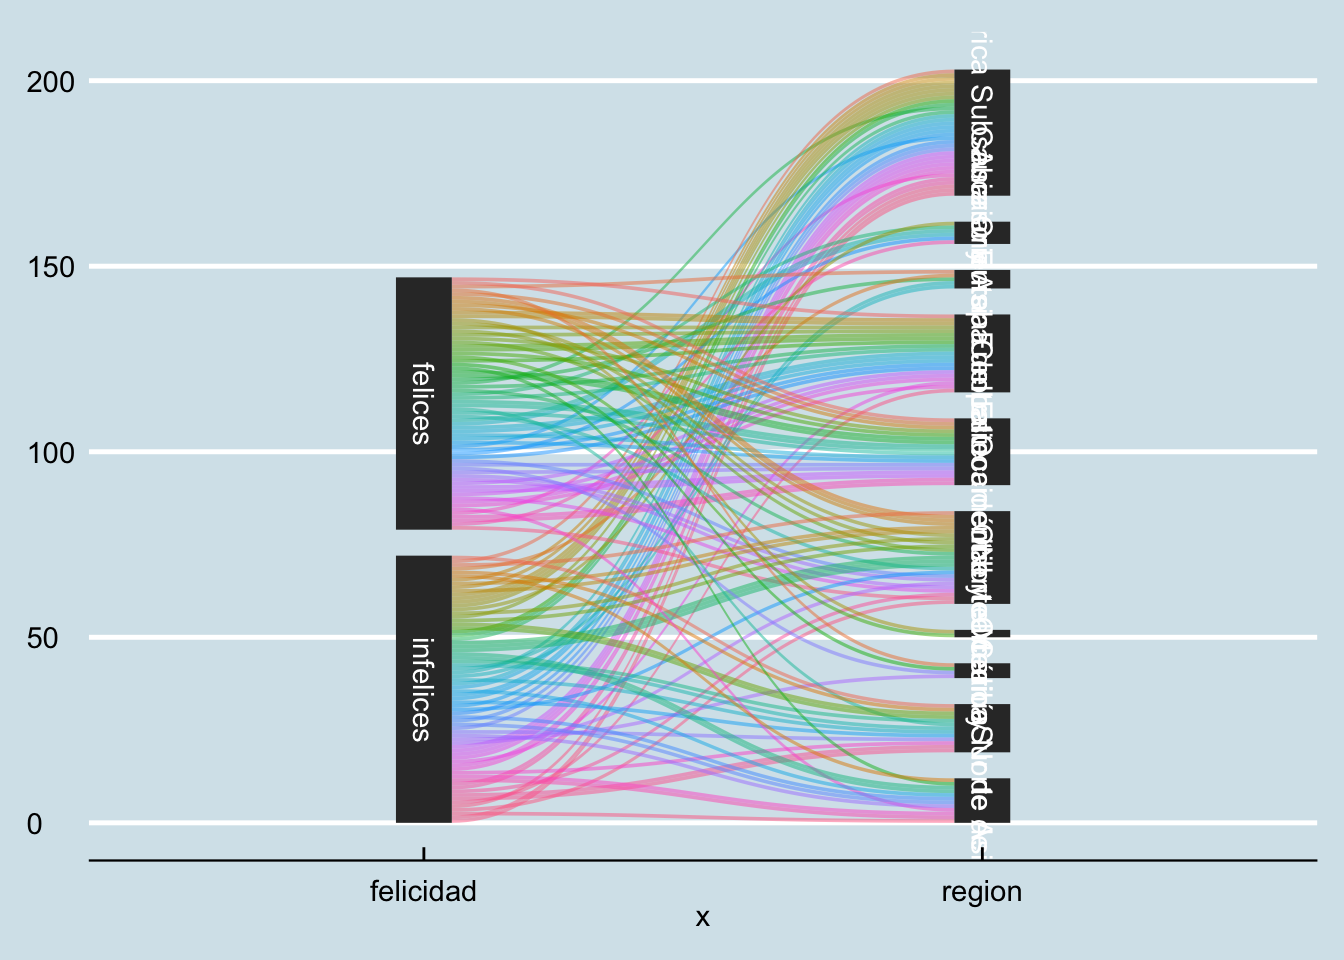
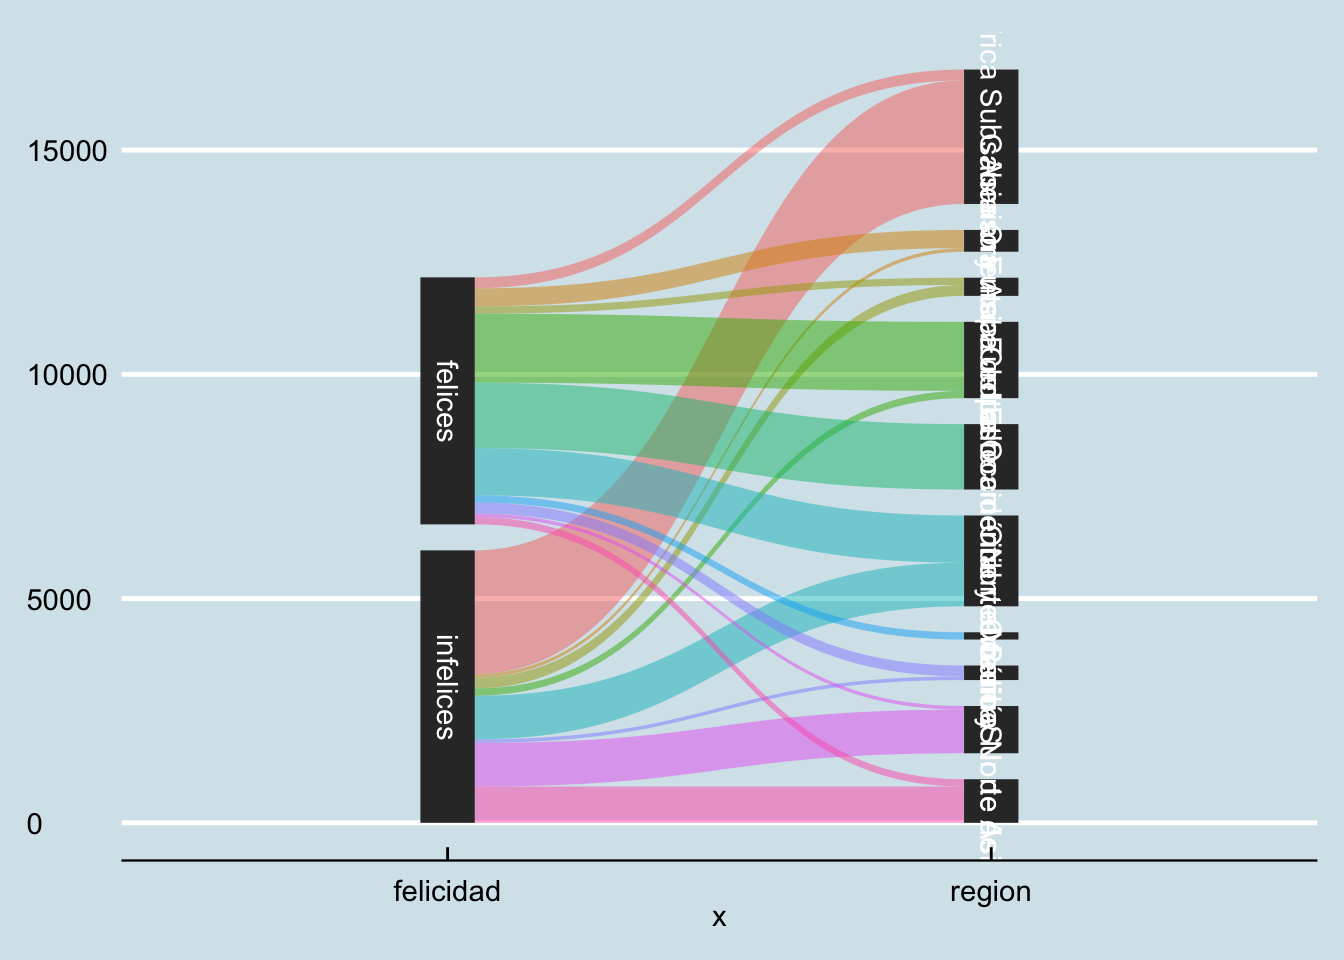
ajustes a posteos

diff --git a/content/post/2021-02-04-gráficos-paralelos/index.html b/content/post/2021-02-04-gráficos-paralelos/index.html
@@ -4,17 +4,22 @@ author: ~
 date: '2021-02-04'
 slug: gráficos-paralelos
 categories: []
-tags: []
+tags: ['visualizar', 'transformar']
 ---
 
 
 
+<p>En este posteo, voy a extender la visualización exploratoria del <a href="/cuarto">anterior</a>, y crear una gráfico de sets paralelos (o sankey) que muestre la cantidad de países que tienen un índice alto de felicidad (superior a 7) en cada región.</p>
+<div id="prendo-librerías" class="section level3">
+<h3>1. Prendo librerías</h3>
 <pre class="r"><code>library(readr)
 library(tidyverse)
-library(dplyr)
-
-libertad &lt;- readr::read_csv(&quot;https://raw.githubusercontent.com/cienciadedatos/datos-de-miercoles/master/datos/2019/2019-08-14/libertad.csv&quot;)
-print(libertad)</code></pre>
+library(dplyr)</code></pre>
+</div>
+<div id="creo-una-variable-categórica-a-partir-de-los-datos-sobre-libertad-humana" class="section level3">
+<h3>2. Creo una variable categórica a partir de los datos sobre libertad humana</h3>
+<pre class="r"><code>libertad &lt;- readr::read_csv(&quot;https://raw.githubusercontent.com/cienciadedatos/datos-de-miercoles/master/datos/2019/2019-08-14/libertad.csv&quot;)
+print(libertad) #importo datos</code></pre>
 <pre><code>## # A tibble: 1,458 x 10
 ##     anio codigo_iso pais  region libertad_humana… libertad_humana…
 ##    &lt;dbl&gt; &lt;chr&gt;      &lt;chr&gt; &lt;chr&gt;             &lt;dbl&gt;            &lt;dbl&gt;
@@ -31,29 +36,36 @@ print(libertad)</code></pre>
 ## # … with 1,448 more rows, and 4 more variables:
 ## #   libertad_personal_puntaje &lt;dbl&gt;, libertad_personal_ranking &lt;dbl&gt;,
 ## #   libertad_economica_puntaje &lt;dbl&gt;, libertad_economica_ranking &lt;dbl&gt;</code></pre>
-<pre class="r"><code>libertad2 &lt;- libertad %&gt;% 
-  select(anio, region, codigo_iso, pais, libertad_humana_puntaje, libertad_economica_puntaje) %&gt;% 
-  group_by(pais, region) %&gt;% 
-  summarise(promediohumana = mean(libertad_humana_puntaje), promedioecon = mean(libertad_economica_puntaje)) %&gt;% 
-  drop_na()
+<pre class="r"><code>libertad2 &lt;- libertad %&gt;% #creo una base nueva
+  select(anio, region, pais, libertad_humana_puntaje, libertad_economica_puntaje) %&gt;% #elijo variables de interés
+  group_by(pais, region) %&gt;% #agrupo por país y región
+  mutate(promediohumana = mean(libertad_humana_puntaje), promedioecon = mean(libertad_economica_puntaje)) %&gt;% #calculo promedios para cada país
+  drop_na() #suelto los missing values
 
 felicidades &lt;- libertad2 %&gt;% 
-  mutate(felicidad = if_else(promediohumana &gt; 7.0, &quot;felices&quot;,
-                             &quot;infelices&quot;))
-library(ggforce)
+  mutate(felicidad = if_else(promediohumana &gt; 7.0, &quot;libres&quot;,
+                             &quot;menos libres&quot;)) #creo una base nueva con una variable categórica</code></pre>
+</div>
+<div id="creo-una-base-de-datos-con-las-características-necesarias-para-armar-un-gráfico-de-sets-paralelos." class="section level3">
+<h3>3. Creo una base de datos con las características necesarias para armar un gráfico de sets paralelos.</h3>
+<pre class="r"><code>library(ggforce) #prendo librería para sets paralelos
 
 felicidadesgraficar &lt;- felicidades %&gt;% 
   select(pais, region, felicidad) %&gt;% 
-  group_by(pais, region, felicidad) %&gt;%   # AGRUPAMOS POR TRES VARIABLES
-  mutate(value = n()) %&gt;%  # CONTAMOS CUANTOS PERSONAJES HAY POR GRUPO
+  group_by(pais, region, felicidad) %&gt;%   # agrupo por tres variables
+  mutate(value = n()) %&gt;%  # cuento cuántos países hay por grupo
   ungroup() 
 felicidadesparalel &lt;- felicidadesgraficar %&gt;% 
-  gather_set_data(2:3)</code></pre>
+  gather_set_data(2:3) </code></pre>
+</div>
+<div id="grafico" class="section level3">
+<h3>4. Grafico</h3>
 <pre class="r"><code>ggplot(felicidadesparalel,
-       aes(x, id = id, split = y, value = value)) + #  INICIA GRAFICO
-  geom_parallel_sets(aes(fill = pais), alpha = 0.5, axis.width = 0.1) +
+       aes(x, id = id, split = y, value = value)) + #  inicio gráfico
+  geom_parallel_sets(aes(fill = region), alpha = 0.5, axis.width = 0.1) +
   geom_parallel_sets_axes(axis.width = 0.1) +
   geom_parallel_sets_labels(colour = &#39;white&#39;) +
   ggthemes::theme_economist() +
   theme(legend.position = &quot;none&quot;)</code></pre>
-<p><img src="index_files/figure-html/unnamed-chunk-2-1.png" width="672" /></p>
+<p><img src="index_files/figure-html/unnamed-chunk-4-1.png" width="672" /></p>
+</div>

diff --git a/content/post/2021-02-04-análisis-de-discursos/index.html b/content/post/2021-02-04-análisis-de-discursos/index.html
@@ -4,22 +4,29 @@ author: ~
 date: '2021-01-24'
 slug: análisis-de-discursos
 categories: []
-tags: []
+tags: ['Leer', 'Ordenar', 'Transfomar', 'Visualizar']
 ---
 
 
 
-<pre class="r"><code>library(polAr)
-library(dplyr)
-library(tm)
-library(topicmodels)
+<p>En este posteo, voy a intentar un análisis muy simple de las palabras más utilizadas en dos discursos de apertura de la asamblea legislativa muy particulares:</p>
+<ul>
+<li>el más antiguo, pronunciado por Justo José de Urquiza en 1854 (en ese entonces, ante el llamado &quot;Congreso Legislativo Federal&quot;)</li>
+<li>el más reciente, pronunciado por Alberto Fernández en 2020</li>
+</ul>
+<p>Para hacerlo, me voy a valer de los datos de la librería polAr, que ya cuenta con los discursos tokenizados.</p>
+<div id="prendo-librerías" class="section level3">
+<h3>1. Prendo librerías</h3>
+<pre class="r"><code>library(polAr) #para obtener los discursos tokenizados
 library(tidyverse)
 library(ggplot2)
-library(forcats)
-library(patchwork)
-library(wordcloud2)
-
-show_available_speech()</code></pre>
+library(patchwork) #para unir los dos gráficos de barras
+library(wordcloud2) #para crear las nubes de palabras
+library(webshot) #para que muestre nubes de palabras (spoiler: no funcionó)</code></pre>
+</div>
+<div id="creo-una-nube-de-palabras-con-los-términos-más-utilizados-por-urquiza." class="section level3">
+<h3>2. Creo una nube de palabras con los términos más utilizados por Urquiza.</h3>
+<pre class="r"><code>show_available_speech()</code></pre>
 <pre><code>## # A tibble: 116 x 2
 ##    year  president            
 ##    &lt;chr&gt; &lt;chr&gt;                
@@ -39,24 +46,53 @@ show_available_speech()</code></pre>
 frecuencia &lt;- urquiza %&gt;% 
   group_by(word) %&gt;% 
   count() %&gt;% 
-  arrange(desc(n))
-
-nubeurquiza &lt;- wordcloud2::wordcloud2(frecuencia)
+  arrange(desc(n)) %&gt;% 
+  print()</code></pre>
+<pre><code>## # A tibble: 4,858 x 2
+## # Groups:   word [4,858]
+##    word              n
+##    &lt;chr&gt;         &lt;int&gt;
+##  1 gobierno        112
+##  2 buenos           58
+##  3 confederacion    58
+##  4 nacional         54
+##  5 provincias       53
+##  6 aires            50
+##  7 constitucion     45
+##  8 pueblos          44
+##  9 provincia        42
+## 10 república        42
+## # … with 4,848 more rows</code></pre>
+<pre class="r"><code>nubeurquiza &lt;- wordcloud2::wordcloud2(frecuencia)
 
 print(nubeurquiza)</code></pre>
-<div id="alberto" class="section level3">
-<h3>Alberto</h3>
+<p><img src="index_files/nubeurquiza.png" width="100%" /> ### 3. Creo una nube de palabras con los términos más utilizados por Alberto Fernández.</p>
 <pre class="r"><code>alberto &lt;- get_speech(year = 2020)
 
 frecuencia2 &lt;- alberto %&gt;% 
   group_by(word) %&gt;% 
   count() %&gt;% 
-  arrange(desc(n))
+  arrange(desc(n)) %&gt;% 
+  print()</code></pre>
+<pre><code>## # A tibble: 2,427 x 2
+## # Groups:   word [2,427]
+##    word           n
+##    &lt;chr&gt;      &lt;int&gt;
+##  1 social        27
+##  2 nacional      26
+##  3 desarrollo    25
+##  4 ley           24
+##  5 federal       21
+##  6 gobierno      18
+##  7 queremos      18
+##  8 deuda         17
+##  9 poder         17
+## 10 justicia      16
+## # … with 2,417 more rows</code></pre>
+<pre class="r"><code>nubealberto &lt;- wordcloud2::wordcloud2(frecuencia2)
 
-nubealberto &lt;- wordcloud2::wordcloud2(frecuencia2)</code></pre>
-</div>
-<div id="gráficos" class="section level3">
-<h3>Gráficos</h3>
+print(nubealberto)</code></pre>
+<p><img src="index_files/nubealberto.png" width="100%" /> ### Creo gráficos de barras con las palabras más utilizadas por cada uno.</p>
 <pre class="r"><code>frecuencia3 &lt;- alberto %&gt;% 
   group_by(word) %&gt;% 
   count() %&gt;%
@@ -92,5 +128,5 @@ barrasurquiza &lt;- ggplot(data = frecuencia4,
        x = &quot;&quot;)
 
 barrasurquiza + barraslaberto</code></pre>
-<p><img src="index_files/figure-html/unnamed-chunk-3-1.png" width="672" /></p>
+<p><img src="index_files/figure-html/unnamed-chunk-6-1.png" width="672" /></p>
 </div>

diff --git a/content/post/2021-02-03-cuarto/cuarto.html b/content/post/2021-02-03-cuarto/cuarto.html
@@ -4,15 +4,18 @@ author: ~
 date: '2021-02-03'
 slug: cuarto
 categories: []
-tags: []
+tags: ['leer', 'ordenar', 'transformar', 'visualizar']
 ---
 
 
 
-<pre class="r"><code>library(readr)
-library(tidyverse)
+<p>En este ejercicio, voy a explorar gráficamente algunos indicadores sobre distintas medidas para la libertad en distintos países. En concreto, voy a observar que existe una relación clara entre los índices de libertad humana y los de libertad económica.</p>
+<div id="importo-datos" class="section level3">
+<h3>Importo datos</h3>
+<pre class="r"><code>library(readr) #prendo librería para leer datos
+library(tidyverse) #prendo librería para ordenar y transformar datos
 
-libertad &lt;- readr::read_csv(&quot;https://raw.githubusercontent.com/cienciadedatos/datos-de-miercoles/master/datos/2019/2019-08-14/libertad.csv&quot;)
+libertad &lt;- readr::read_csv(&quot;https://raw.githubusercontent.com/cienciadedatos/datos-de-miercoles/master/datos/2019/2019-08-14/libertad.csv&quot;) #importo datos
 print(libertad)</code></pre>
 <pre><code>## # A tibble: 1,458 x 10
 ##     anio codigo_iso pais  region libertad_humana… libertad_humana…
@@ -30,11 +33,30 @@ print(libertad)</code></pre>
 ## # … with 1,448 more rows, and 4 more variables:
 ## #   libertad_personal_puntaje &lt;dbl&gt;, libertad_personal_ranking &lt;dbl&gt;,
 ## #   libertad_economica_puntaje &lt;dbl&gt;, libertad_economica_ranking &lt;dbl&gt;</code></pre>
-<pre class="r"><code>libertad2 &lt;- libertad %&gt;% 
-  select(anio, region, codigo_iso, pais, libertad_humana_puntaje, libertad_economica_puntaje) %&gt;% 
-  group_by(pais, region) %&gt;% 
-  summarise(promediohumana = mean(libertad_humana_puntaje), promedioecon = mean(libertad_economica_puntaje)) %&gt;% 
-  drop_na()</code></pre>
+<pre class="r"><code>libertad2 &lt;- libertad %&gt;% #creo una nueva base
+  select(anio, region, pais, libertad_humana_puntaje, libertad_economica_puntaje) %&gt;% #elijo las variables que me interesan
+  group_by(pais, region) %&gt;% #las agrupo por país y por región
+  mutate(promediohumana = mean(libertad_humana_puntaje), promedioecon = mean(libertad_economica_puntaje)) %&gt;% #calculo promedios para cada país
+  drop_na() %&gt;% #suelto los missing values
+  print()</code></pre>
+<pre><code>## # A tibble: 1,269 x 7
+## # Groups:   pais, region [140]
+##     anio region pais  libertad_humana… libertad_econom… promediohumana
+##    &lt;dbl&gt; &lt;chr&gt;  &lt;chr&gt;            &lt;dbl&gt;            &lt;dbl&gt;          &lt;dbl&gt;
+##  1  2016 Europ… Alba…             7.57             7.54           7.52
+##  2  2016 Orien… Alge…             5.14             4.99           5.14
+##  3  2016 Áfric… Ango…             5.64             5.17           5.50
+##  4  2016 Latin… Arge…             6.47             4.84           6.68
+##  5  2016 Cáuca… Arme…             7.24             7.57           7.41
+##  6  2016 Ocean… Aust…             8.58             7.98           8.61
+##  7  2016 Europ… Aust…             8.41             7.58           8.42
+##  8  2016 Cáuca… Azer…             6.08             6.49           6.15
+##  9  2016 Latin… Baha…             7.4              7.34           7.56
+## 10  2016 Orien… Bahr…             6.85             7.56           6.80
+## # … with 1,259 more rows, and 1 more variable: promedioecon &lt;dbl&gt;</code></pre>
+</div>
+<div id="grafico" class="section level3">
+<h3>Grafico</h3>
 <pre class="r"><code>econyhumana &lt;- ggplot(data = libertad2,
        mapping = aes(x = promediohumana, y = promedioecon, color = pais)) +
   geom_point() +
@@ -47,3 +69,4 @@ print(libertad)</code></pre>
 
 print(econyhumana)</code></pre>
 <p><img src="/post/2021-02-03-cuarto/cuarto_files/figure-html/unnamed-chunk-2-1.png" width="672" /></p>
+</div>
